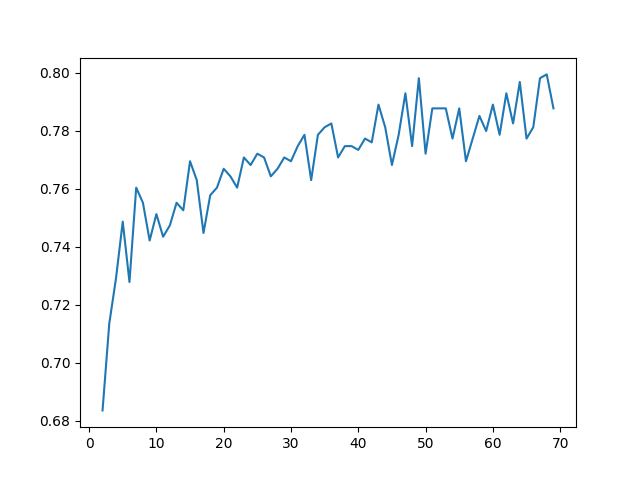
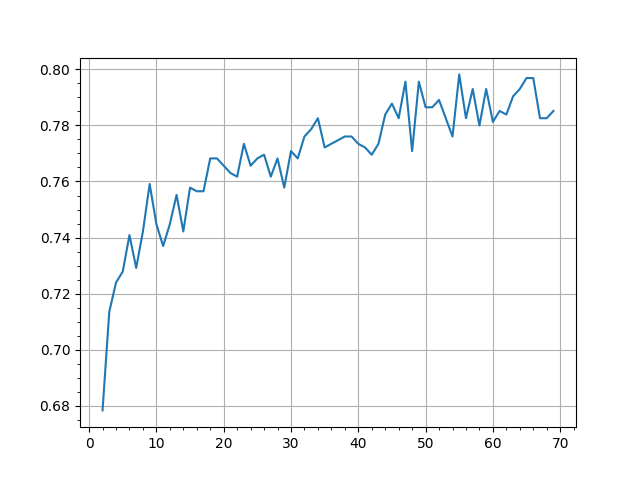
added plots

diff --git a/task_4.py b/task_4.py
@@ -5,7 +5,7 @@ attributes, list_of_data = k_means.read_csv('mean_data.csv')
 k_means.normalize_data(list_of_data)
 
 # get the value from part iii)
-k = 50
+k = 8
 
 def get_variance(data: list):
 	mean_data = 0
@@ -59,26 +59,25 @@ def evaluate_k_means_with_k_centers(full_data, init_method)->dict:
 	Hom_sc /= 50
 	acc_sc /= 50
 
-	return [NMI_sc, ARI_sc, Hom_sc, acc_sc]
+	return [NMI_sc, ARI_sc, Hom_sc]
 
 def evaluate_init(k: int, full_data: list, method, method_name)->None:
-	metrics = [[],[],[],[]]
+	metrics = [[],[],[]]
 	for _ in range(50):
 		ps_metrics = evaluate_k_means_with_k_centers(full_data, method)
-		for i in range(4):
+		for i in range(3):
 			metrics[i].append(ps_metrics[i])
 	
 	import matplotlib.pyplot as plt
 	figure, ax = plt.subplots()
-	colors = ['blue', 'red', 'green', 'yellow']
+	colors = ['blue', 'red', 'green']
 
-	for i in range(4):
+	for i in range(3):
 		ax.plot(metrics[i], color=colors[i])
 	print("\nWith", method_name + ", the variance of metrics were:")
 	print("The variance of NMI:", get_variance(metrics[0]))
 	print("The variance of ARI:", get_variance(metrics[1]))
 	print("The variance of Homogeneity:", get_variance(metrics[2]))
-	print("The variance of Accuracy:", get_variance(metrics[3]))
 	plt.savefig(method_name+'.png')
 	plt.close()
 

diff --git a/task_3.py b/task_3.py
@@ -32,6 +32,8 @@ def wang_cross_validation(k, c, full_data: list):
 
 def plot_metric(x, y, name):
 	plt.plot(x, y)
+	plt.grid(True)
+	plt.minorticks_on()
 	plt.savefig(name+".png")
 	print("generated",name+".png")
 	plt.close()
